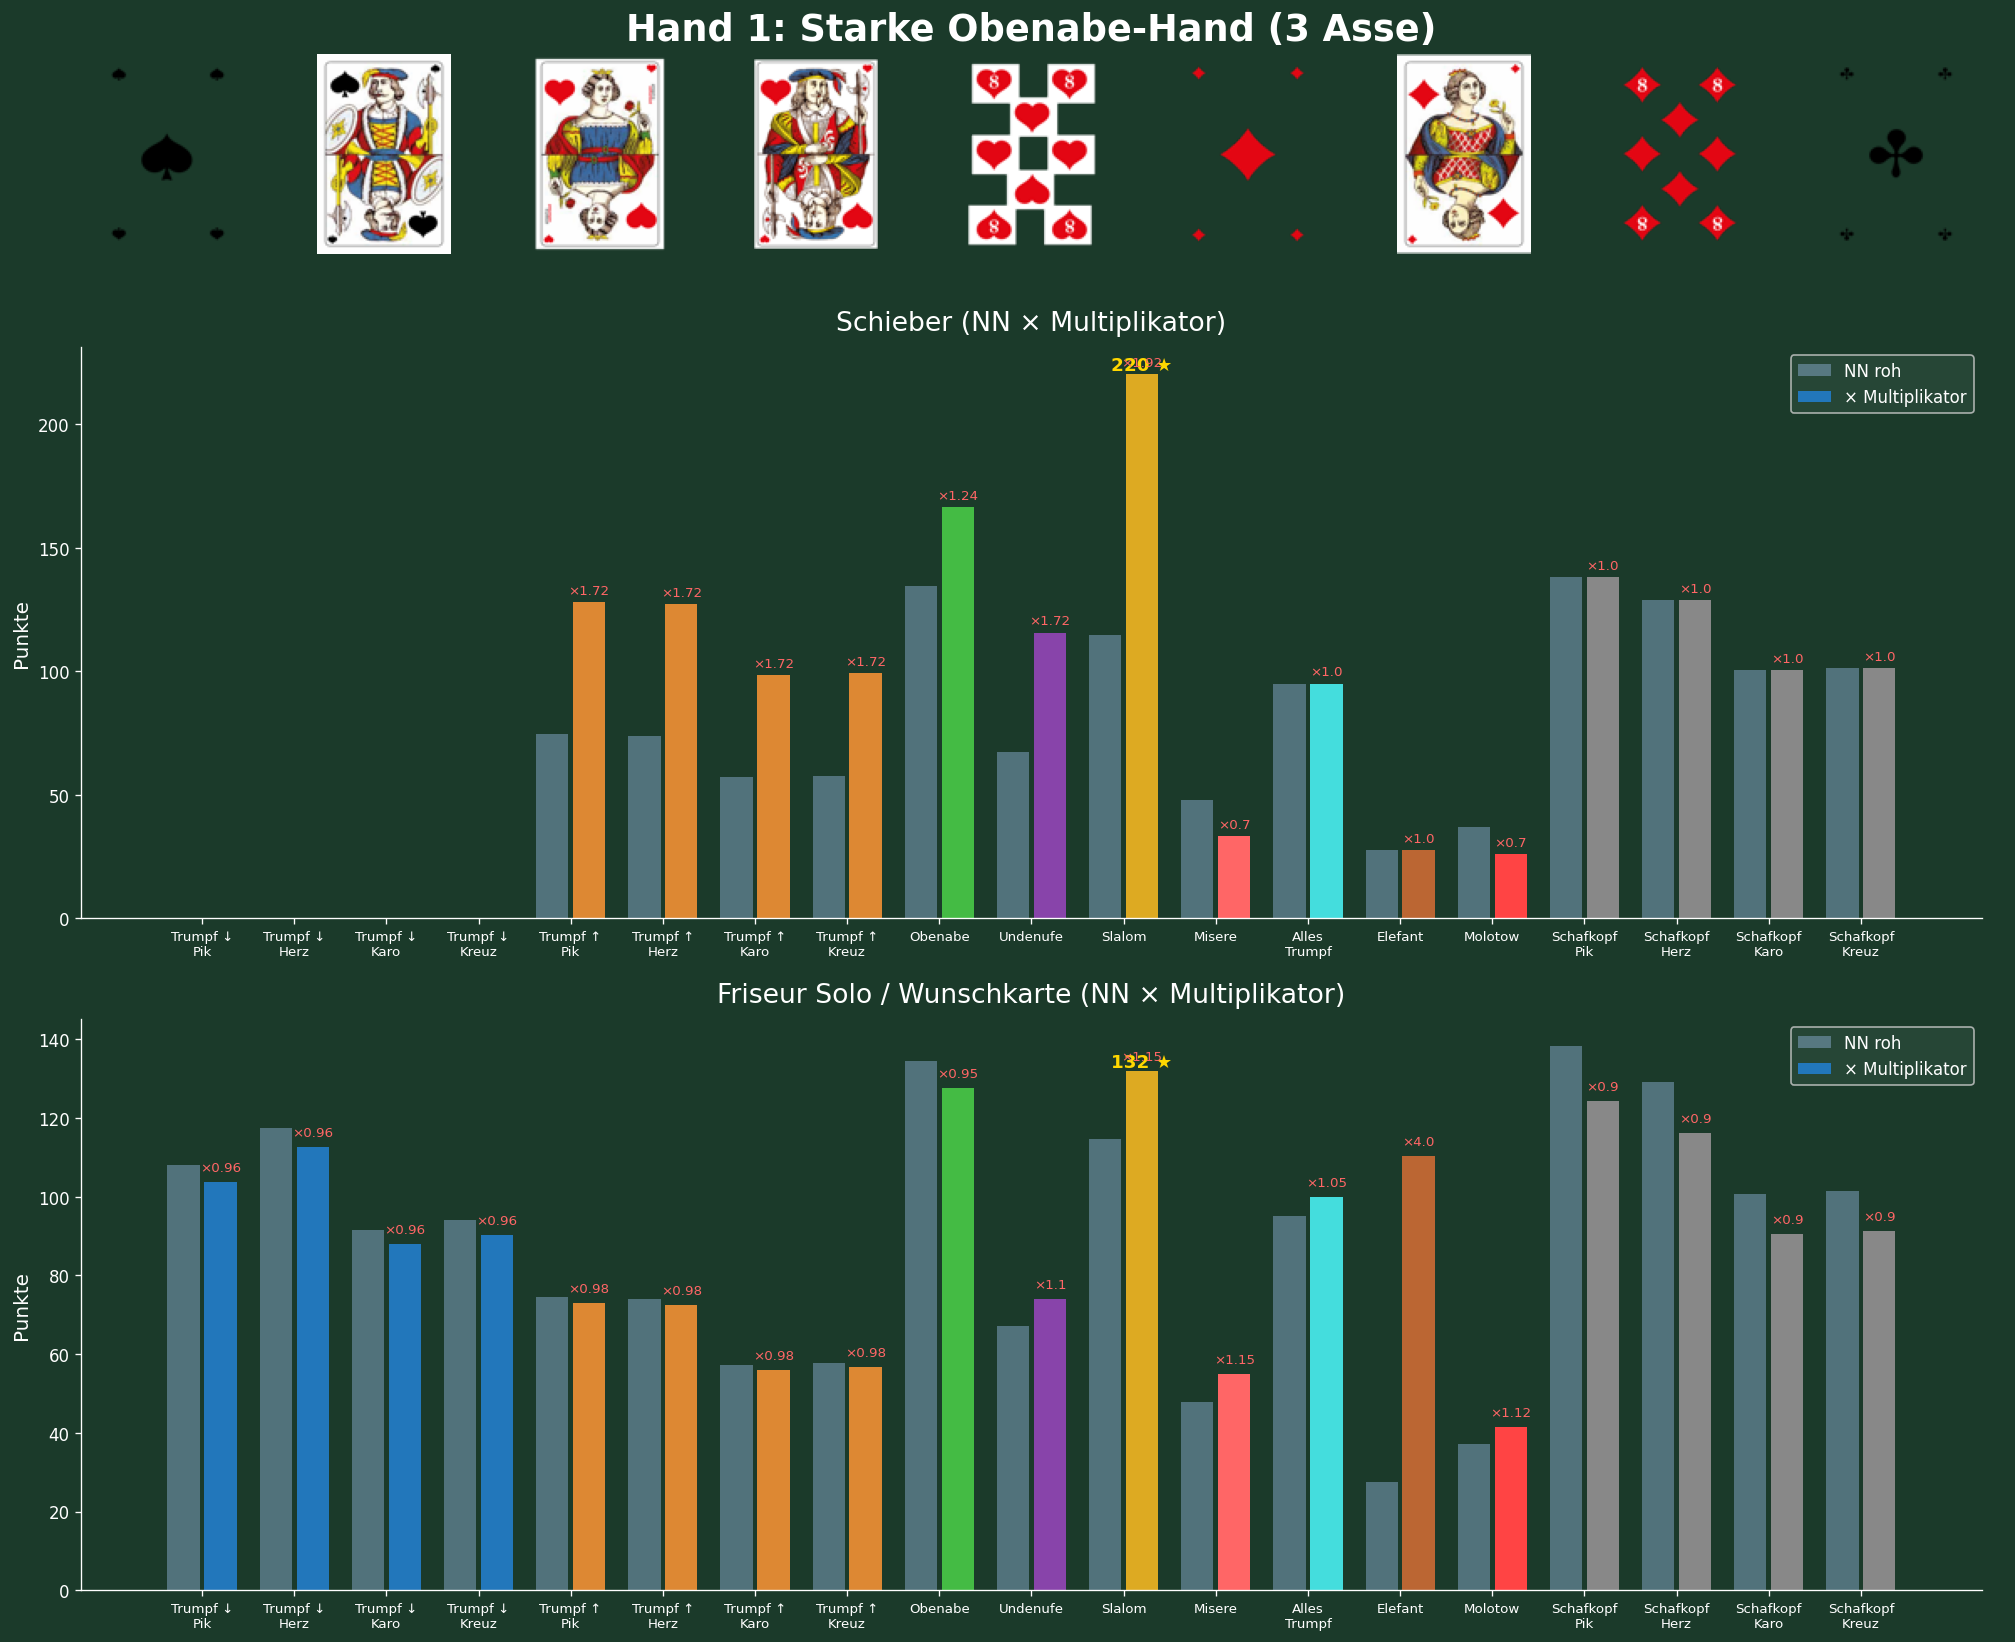
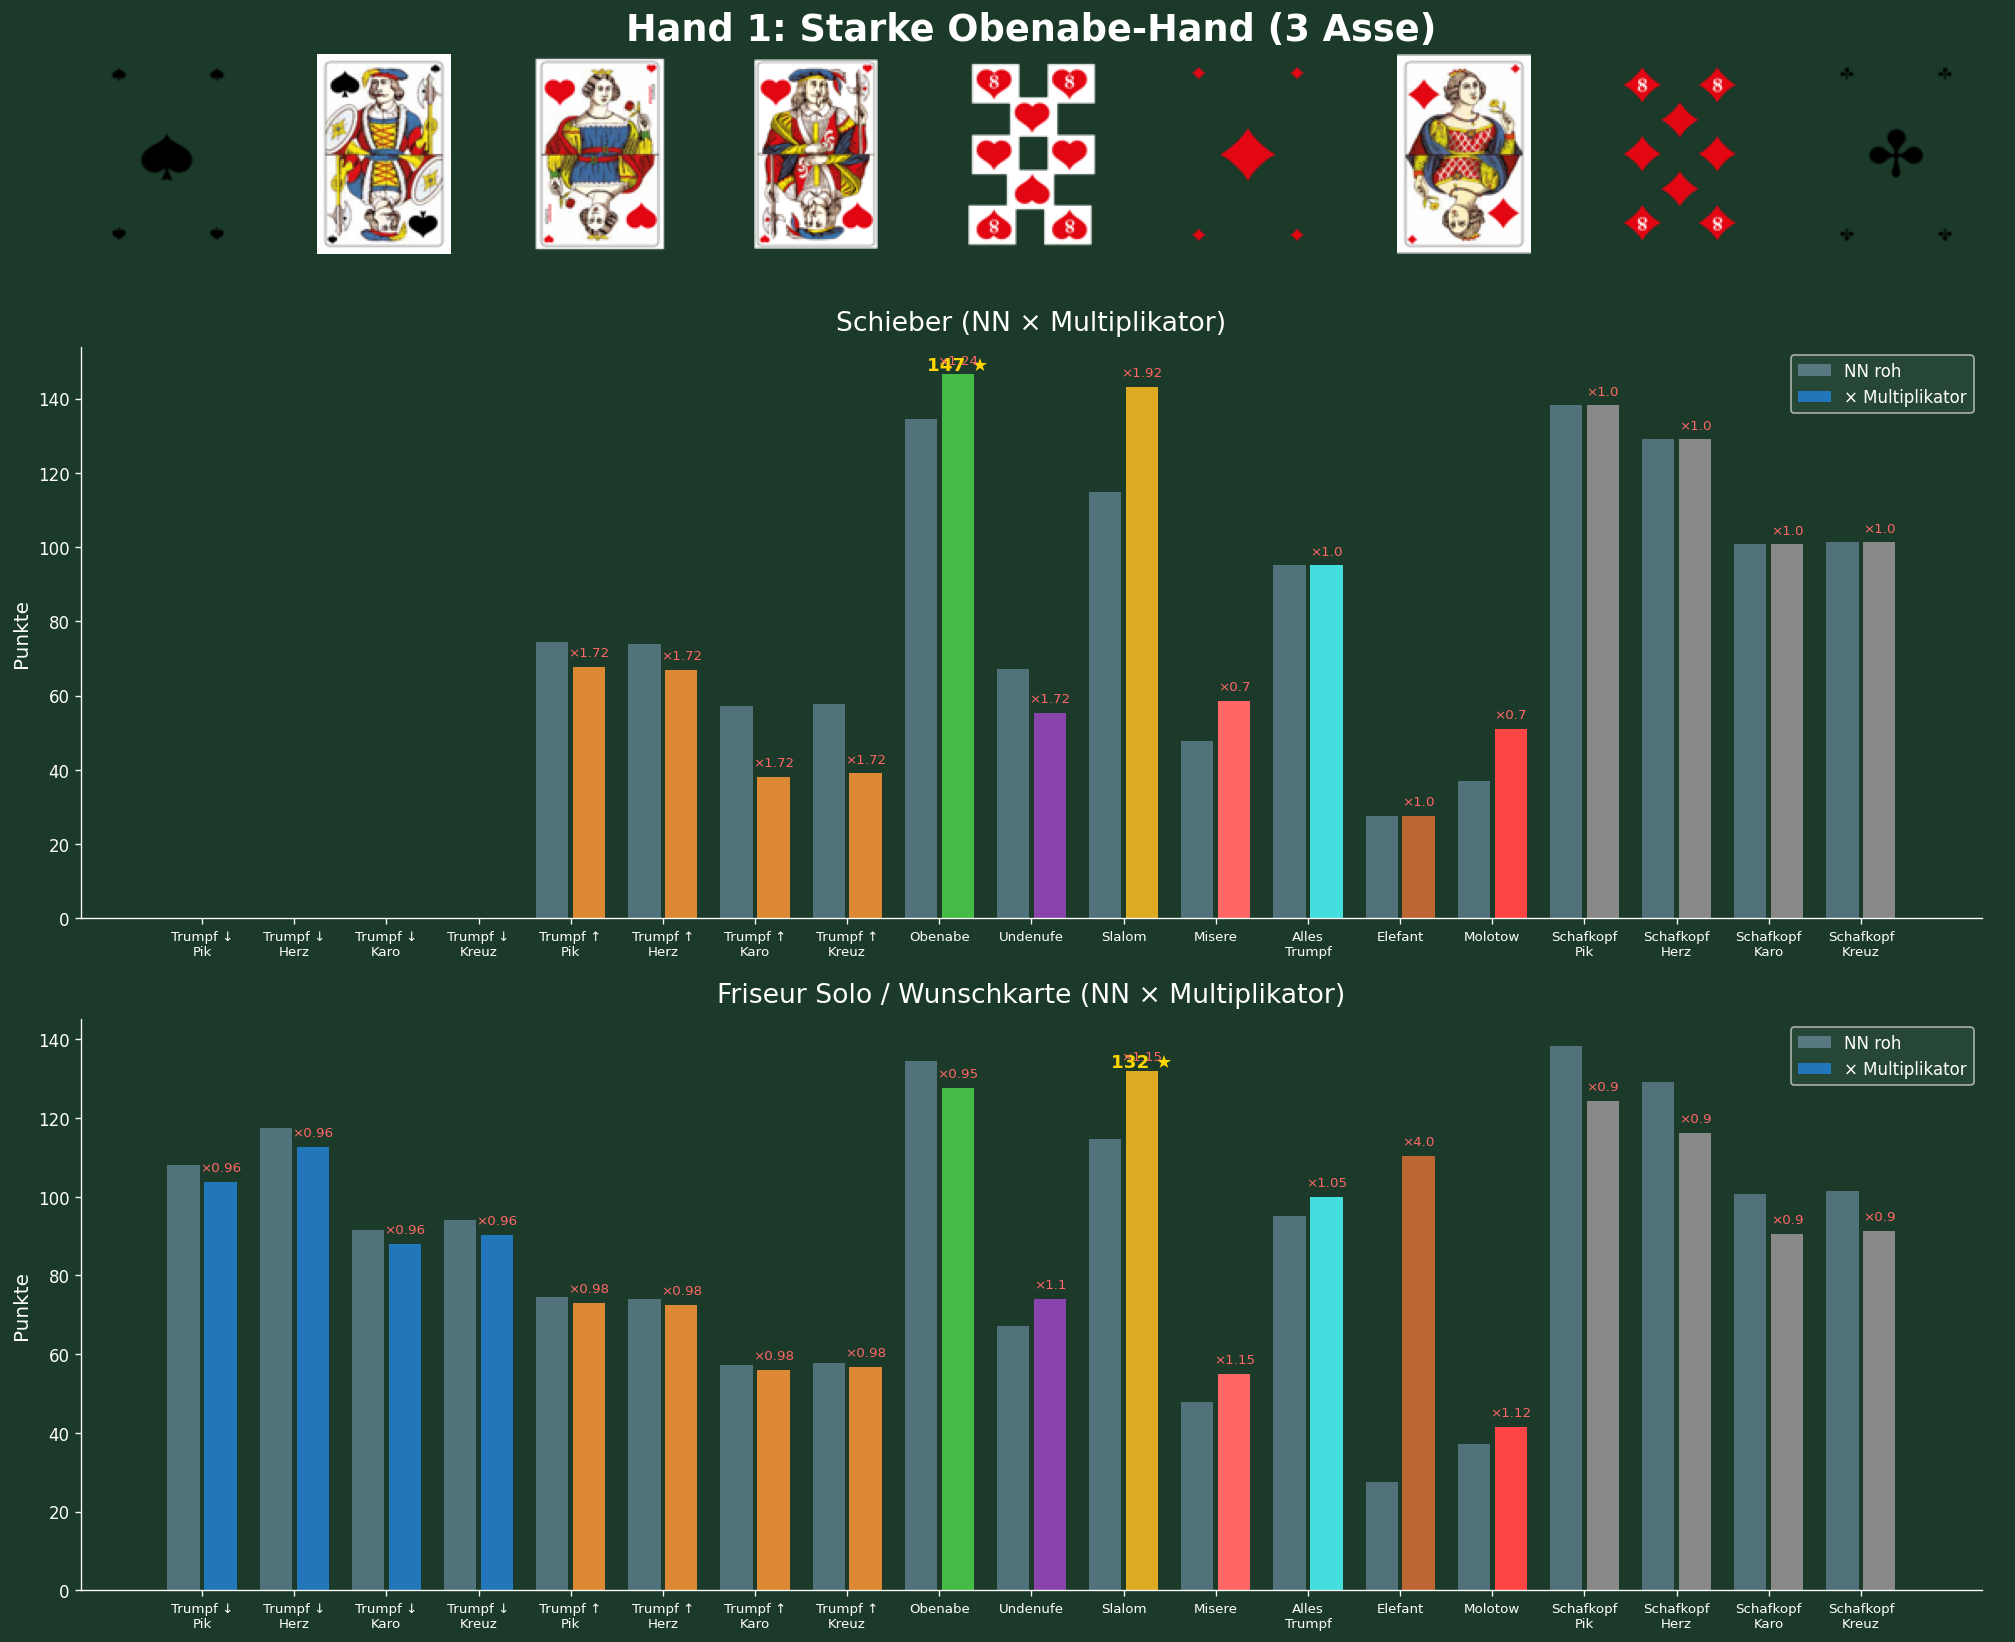
Charts fix: Schieber Delta-Amplifikation statt direkte Multiplikation
- Schieber-Chart zeigt jetzt korrekte adj = mean + (raw - mean) × mult
- Vorher: raw × mult → Slalom erschien immer als höchster (falsch)
- Jetzt: Obenabe/Trumpf korrekt als Gewinner wenn NN-Score hoch

diff --git a/scripts/hand_charts.py b/scripts/hand_charts.py
@@ -171,7 +171,10 @@ def create_chart(hand_info, hand_idx, nn):
 
     # NN gibt Werte 0-1 → ×157 = erwartete Punkte
     schieber_raw = [max(0, raw_scores[i]) * 157 if i < len(raw_scores) else 0 for i in range(19)]
-    schieber_adj = [schieber_raw[i] * SCHIEBER_MULTS[i] for i in range(19)]
+
+    # Schieber: Delta-Amplifikation: adj = mean + (raw - mean) × mult
+    schieber_mean = np.mean([s for s in schieber_raw[4:] if s > 0]) if any(s > 0 for s in schieber_raw[4:]) else 0
+    schieber_adj = [schieber_mean + (schieber_raw[i] - schieber_mean) * SCHIEBER_MULTS[i] for i in range(19)]
 
     # Schieber hat kein Trump Unten → auf 0 setzen
     for i in range(4):
